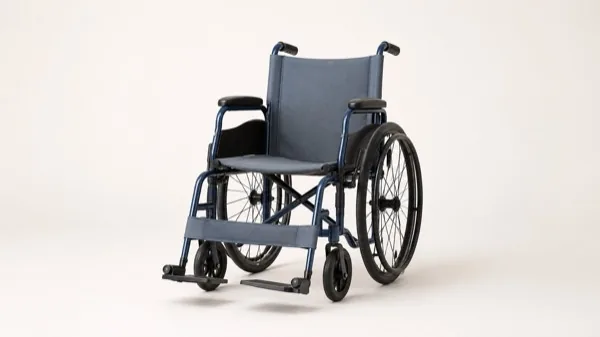
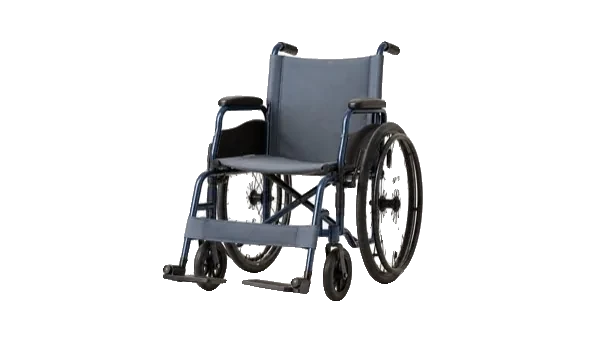
feat(patient-services): I Need Something photos are transparent cutouts; Visitor Chair photo

diff --git a/src/app/components/NeedSomething.tsx b/src/app/components/NeedSomething.tsx
@@ -42,7 +42,7 @@ import imgDentalKit from "../../assets/Housekeeping/dental kit.webp";
 import imgComb from "../../assets/Housekeeping/comb.webp";
 import imgWetWipes from "../../assets/Housekeeping/wet wipes.webp";
 import imgNonSlipSocks from "../../assets/Housekeeping/non-slip socks.webp";
-import imgChair from "../../assets/Housekeeping/wooden chair.webp";
+import imgChair from "../../assets/Housekeeping/visitor-chair.png";
 
 /**
  * Patient Services — "I Need Something" flow.
@@ -768,13 +768,14 @@ export function NeedSomething({ onClose, initialTab }: NeedSomethingProps) {
                           {card.image ? (
                             /* Product photo — the box has the photo's own 16:9
                                shape, so the whole photo shows at every size and
-                               the product keeps its margin (no crop, no zoom). */
+                               the product keeps its margin (no crop, no zoom).
+                               Photos are cut out (transparent), so the product
+                               sits straight on the card surface. */
                             <>
                               <div
                                 style={{
                                   aspectRatio: "16 / 9",
                                   overflow: "hidden",
-                                  backgroundColor: "#f5f5f5",
                                 }}
                               >
                                 <img
